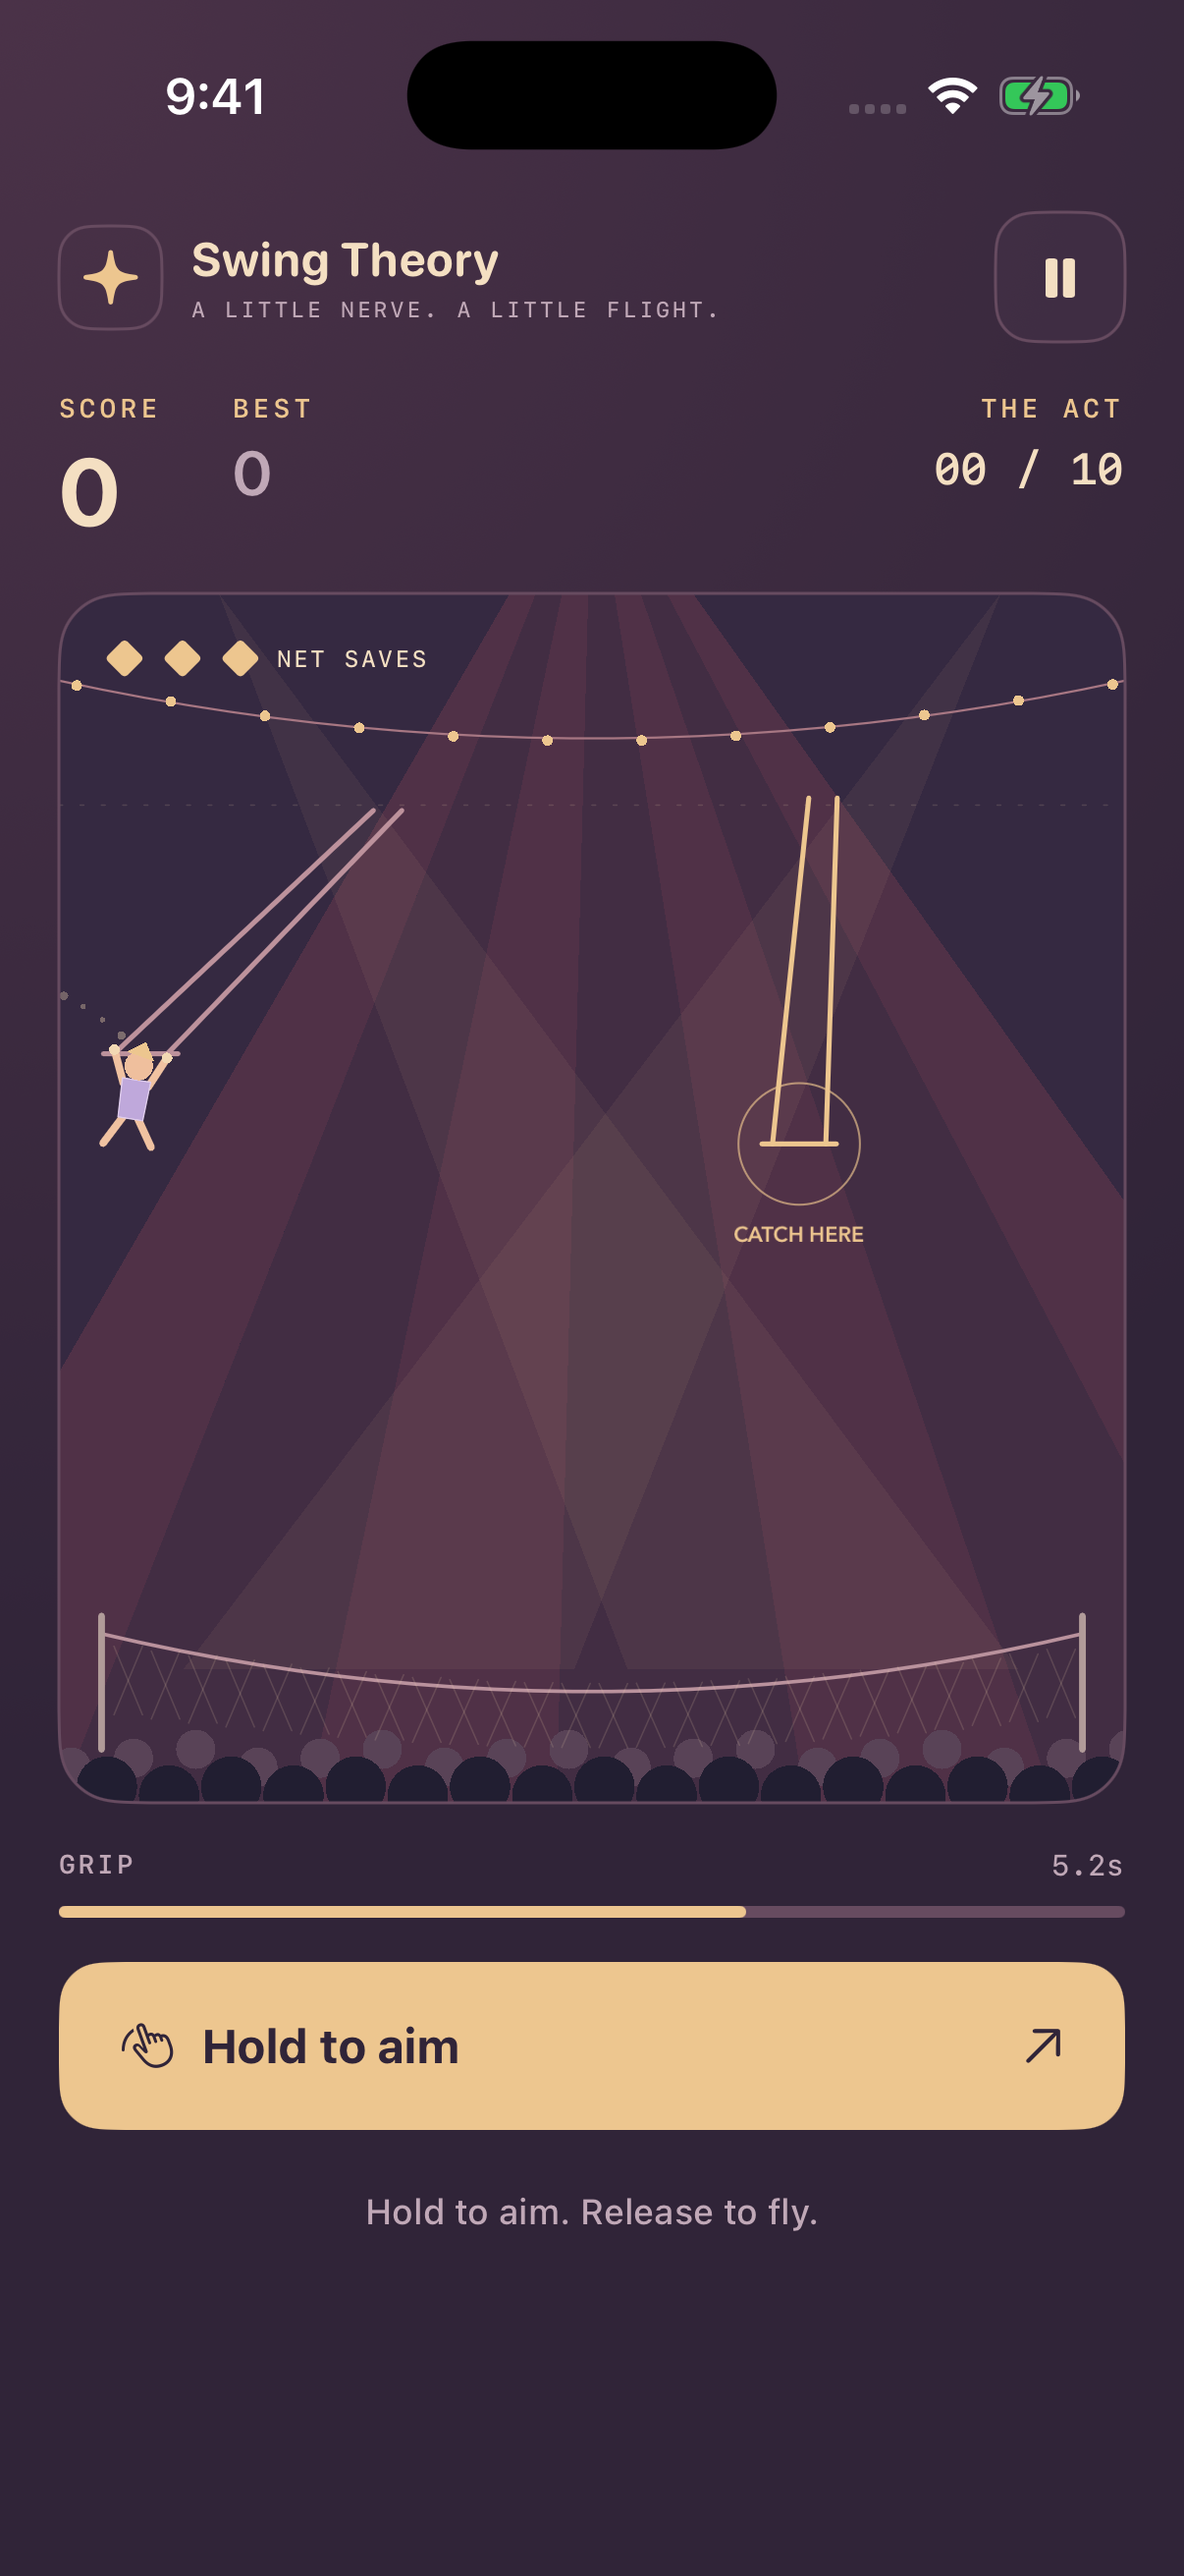
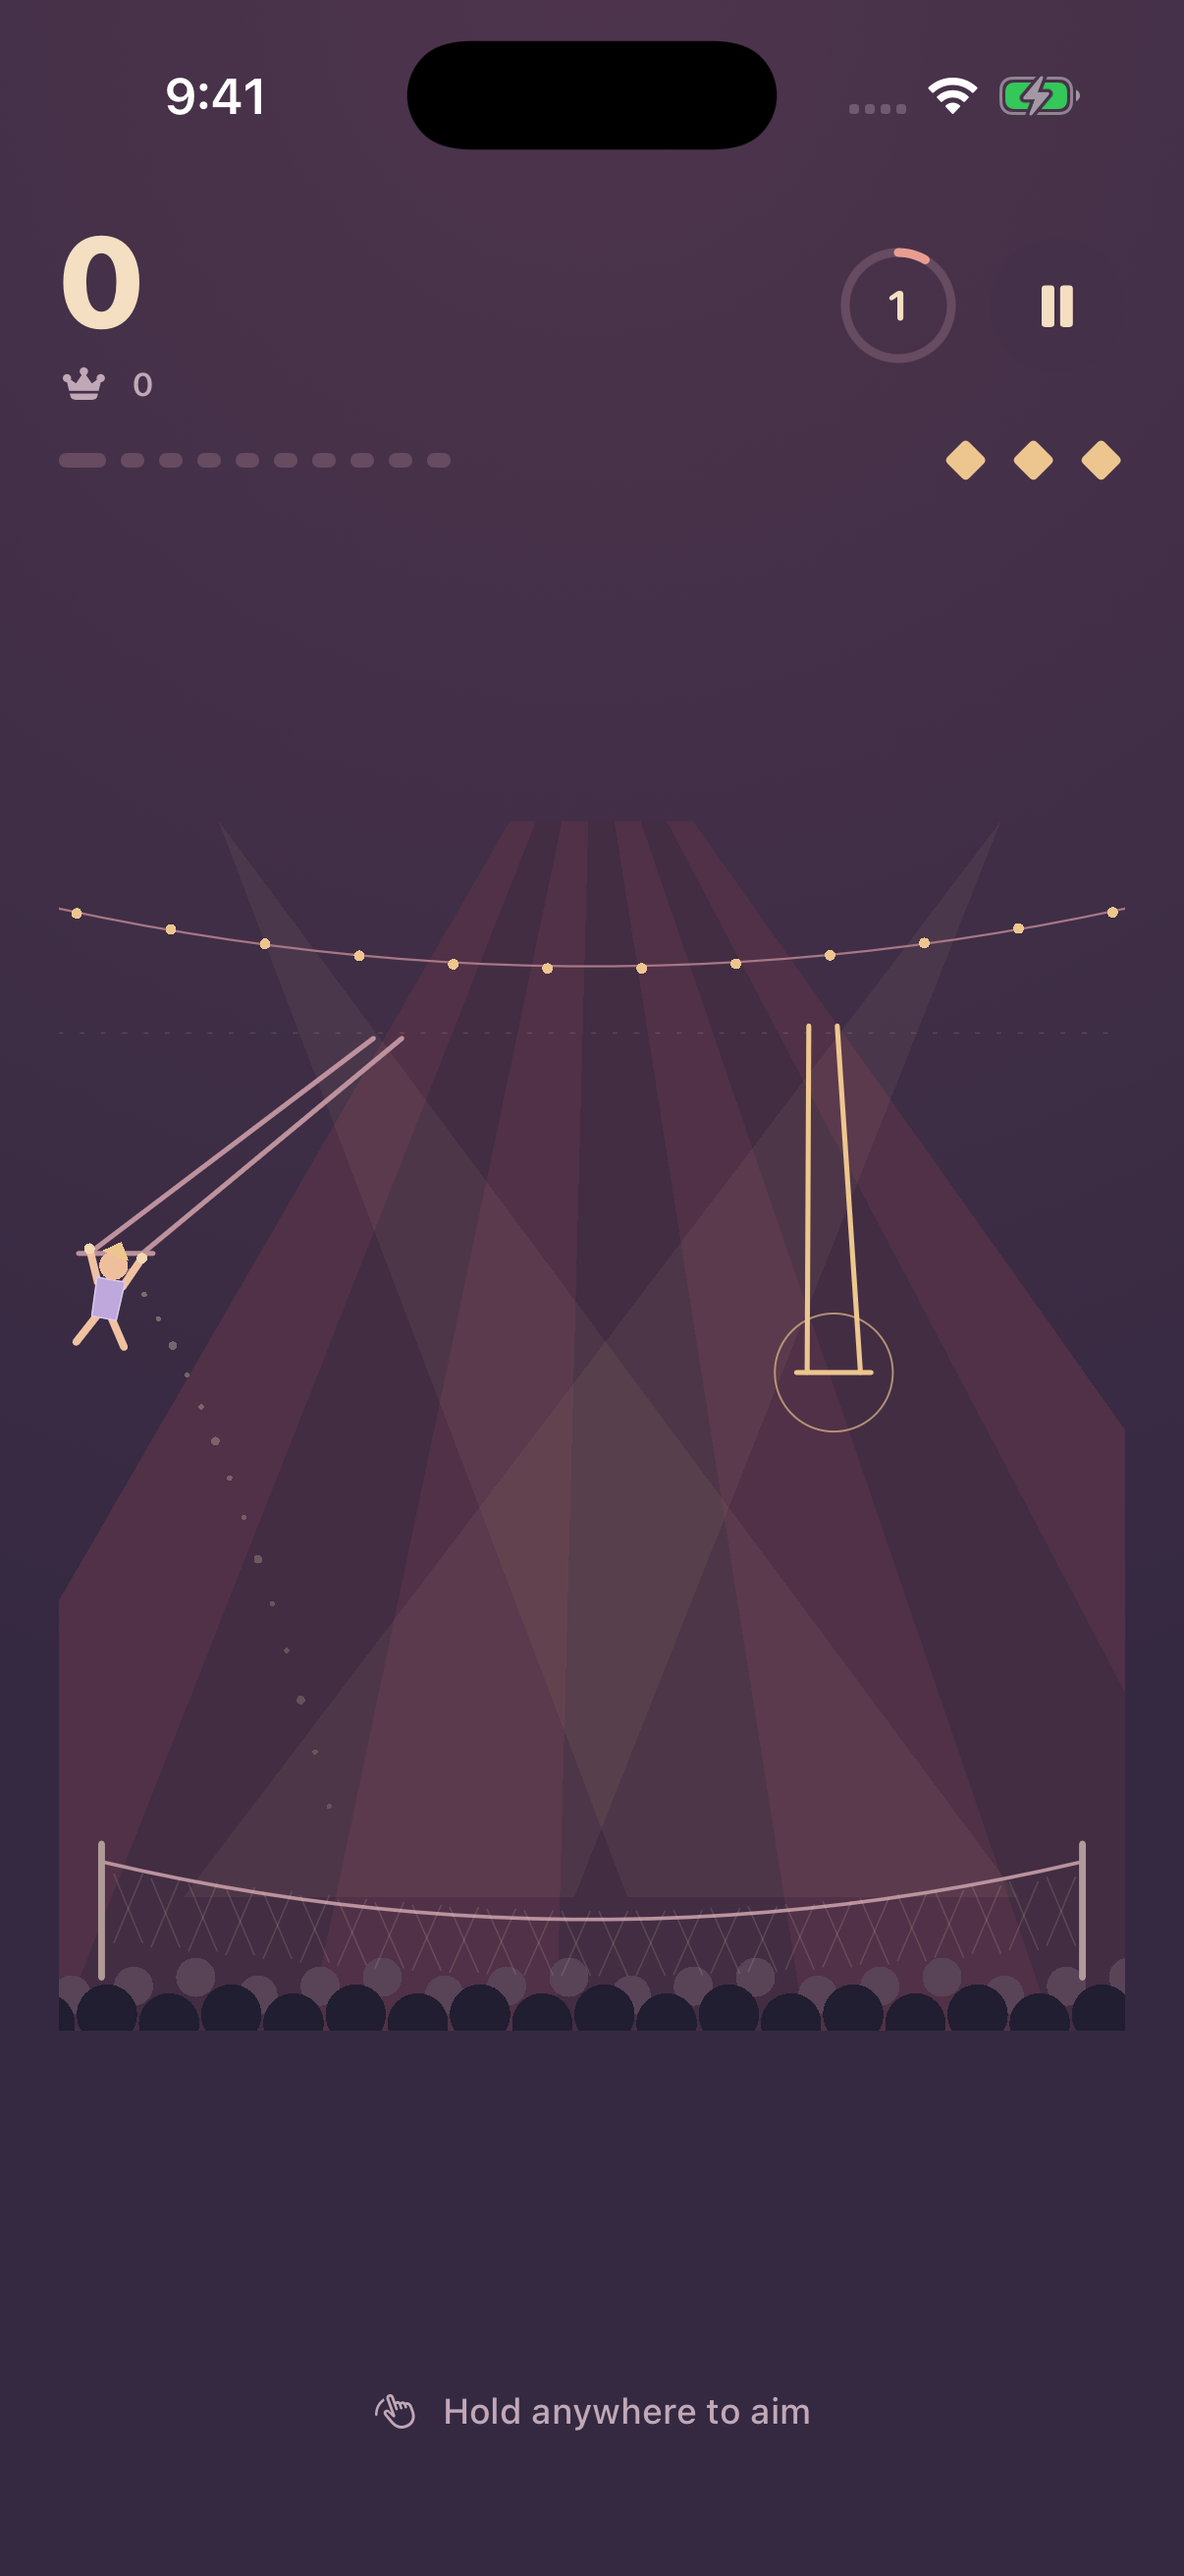
Update Swing Theory website for streamlined build 2 controls

diff --git a/index.html b/index.html
@@ -2,7 +2,7 @@
 <html lang="en"><head><meta charset="utf-8"><meta name="viewport" content="width=device-width,initial-scale=1"><meta name="theme-color" content="#302438"><title>Swing Theory — A little nerve. A little flight.</title><meta name="description" content="A beautiful trapeze timing game for iPhone. Hold to aim, release to fly, and chase one more perfect catch. Ten transfers. Three net saves. Your moment."><link rel="icon" href="assets/app-icon.png" type="image/png"><link rel="stylesheet" href="assets/styles.css"></head>
 <body><a class="skip" href="#main">Skip to content</a><header class="header wrap"><a class="brand" href="index.html"><img src="assets/app-icon.png" width="40" height="40" alt="">Swing Theory</a><nav class="nav" aria-label="Main navigation"><a class="how-link" href="#how-to-play">The game</a><a href="support.html">Support</a><a href="privacy.html">Privacy</a></nav></header>
 <main id="main" class="wrap"><section class="hero"><div><p class="eyebrow">YOUR MOMENT IN THE SPOTLIGHT</p><h1>A little nerve.<br>A little <em>flight.</em></h1><p class="lede">That tiny moment between holding on and letting go? There’s a whole game in it.</p><p class="lede">Swing through a velvet circus, find your line, and leap for the next trapeze. Ten transfers. Three net saves. One more try.</p><div class="herolinks"><a class="button" href="#how-to-play">Find your moment <span aria-hidden="true">↗</span></a><a class="textlink" href="support.html">Meet your safety net →</a></div><p class="fineprint">MADE FOR IPHONE · IOS 17 AND LATER</p></div><div class="stage"><img src="assets/gameplay.png" width="1206" height="2622" alt="Swing Theory on iPhone: a little acrobat, a dotted flight arc, and a glowing trapeze in a plum-colored circus."><div class="floatnote">A beautiful catch is worth the wait. ✦</div></div></section>
-<section class="section" id="how-to-play"><p class="eyebrow">THREE LITTLE THINGS TO KNOW</p><h2>Hold. Release. Believe.</h2><div class="steps"><article class="step"><span class="number">01 / FIND YOUR LINE</span><h3>Hold to aim.</h3><p>Touch and hold to slow your swing. A dotted arc shows where you’ll fly. Watch it turn mint when your release lines up with the next bar.</p></article><article class="step"><span class="number">02 / TAKE THE LEAP</span><h3>Let go to fly.</h3><p>Release while swinging right and upward. Reach the glowing ring and your acrobat catches the bar automatically. You bring the timing.</p></article><article class="step"><span class="number">03 / MAKE IT BEAUTIFUL</span><h3>Catch an encore.</h3><p>Link catches for a growing streak bonus. Centered approaches earn extra precision points. A missed leap uses one of your three net saves.</p></article></div></section>
+<section class="section" id="how-to-play"><p class="eyebrow">THREE LITTLE THINGS TO KNOW</p><h2>Hold. Release. Believe.</h2><div class="steps"><article class="step"><span class="number">01 / FIND YOUR LINE</span><h3>Hold to aim.</h3><p>Touch and hold anywhere in the play area to slow your swing. A dotted arc shows where you’ll fly. Watch it turn mint when your release lines up with the next bar.</p></article><article class="step"><span class="number">02 / TAKE THE LEAP</span><h3>Let go to fly.</h3><p>Release while swinging right and upward. Reach the glowing ring and your acrobat catches the bar automatically. You bring the timing.</p></article><article class="step"><span class="number">03 / MAKE IT BEAUTIFUL</span><h3>Catch an encore.</h3><p>Link catches for a growing streak bonus. Centered approaches earn extra precision points. A missed leap uses one of your three net saves.</p></article></div></section>
 <section class="section featureline"><div><p class="eyebrow">SMALL ROUNDS. A LONG WAY TO IMPROVE.</p><h2>The same little leap.<br>A better feeling every time.</h2></div><div><p>Moving trapezes and varied layouts keep each performance fresh. The grip timer tightens as your act progresses, and every clean catch makes the next one matter a little more.</p><p>Play offline, save your best score on your iPhone, and settle into your own rhythm. No accounts or ads. Just you and the next bar.</p><div class="pills"><span>ONE-TOUCH PLAY</span><span>LOCAL BEST SCORES</span><span>SOUND & HAPTICS</span><span>REDUCED EFFECTS</span></div></div></section>
 <section class="section featureline"><div><p class="eyebrow">A HAND FROM THE WINGS</p><h2>Need a little support?</h2></div><div><p>Questions, close calls, or ideas for the next act—we’d love to hear from you.</p><a class="button" href="support.html">Get in touch <span aria-hidden="true">↗</span></a></div></section></main>
 <footer class="footer wrap"><span>© 2026 Debugger Society. All rights reserved.</span><div><a href="index.html">The game</a><a href="support.html">Support</a><a href="privacy.html">Privacy</a></div></footer></body></html>

diff --git a/support.html b/support.html
@@ -1,10 +1,10 @@
 <!doctype html><html lang="en"><head><meta charset="utf-8"><meta name="viewport" content="width=device-width,initial-scale=1"><meta name="theme-color" content="#302438"><title>Support & how to play — Swing Theory</title><meta name="description" content="Get help with Swing Theory, learn the trapeze controls and scoring, and contact Debugger Society."><link rel="icon" href="assets/app-icon.png" type="image/png"><link rel="stylesheet" href="assets/styles.css"></head><body><a class="skip" href="#main">Skip to content</a><header class="header wrap"><a class="brand" href="index.html"><img src="assets/app-icon.png" width="40" height="40" alt="">Swing Theory</a><nav class="nav" aria-label="Main navigation"><a class="how-link" href="index.html#how-to-play">The game</a><a href="support.html" aria-current="page">Support</a><a href="privacy.html">Privacy</a></nav></header>
 <main id="main" class="wrap"><div class="dochead"><p class="eyebrow">A HAND FROM THE WINGS</p><h1>Let’s keep you flying.</h1><p class="lede">A question, a bug, or an idea for the next act? You can reach the developer directly.</p></div><div class="supportgrid"><section class="contact"><h2>Say hello.</h2><p>For help with Swing Theory, send us an email. Include your iPhone model, iOS version, app version, and what happened. A screenshot can help, too.</p><a class="button" href="mailto:debuggersociety@zohomail.com?subject=Swing%20Theory%20support">Get in touch <span aria-hidden="true">↗</span></a><a class="email" href="mailto:debuggersociety@zohomail.com">debuggersociety@zohomail.com</a></section><section class="faqs" aria-labelledby="faq"><h2 id="faq">Good questions.</h2>
-<details open><summary>How do I play?</summary><p>Choose Enter the spotlight. Hold the playfield or the large control to slow your swing, then release to leap. The dots show your flight arc. Your acrobat catches the next bar automatically when you reach its ring. Make ten transfers before using all three net saves.</p></details>
+<details open><summary>How do I play?</summary><p>Choose Play. Hold anywhere in the play area to slow your swing, then release to leap. The dots show your flight arc. Your acrobat catches the next bar automatically when you reach its ring. Make ten transfers before using all three net saves.</p></details>
 <details><summary>What does the mint guide mean?</summary><p>The guide turns mint when your current release is lined up with the moving next bar. It’s a timing cue: the line continues to change while you swing, so release while it is lined up.</p></details>
 <details><summary>How does scoring work?</summary><p>Each catch earns 120 points, plus 25 points for each catch in the current uninterrupted streak. Your first catch is worth 145 before bonuses; your second is worth 170. A centered approach adds 60 precision points. A fall resets your streak.</p></details>
 <details><summary>Why did I lose a net save without jumping?</summary><p>Your grip lasts eight seconds at the beginning and tightens as you progress. Holding to aim slows the swing, but the grip timer keeps running. Release before your grip runs out.</p></details>
-<details><summary>Can I pause or leave the app?</summary><p>Yes. Tap Pause during a performance. Switching apps or receiving an interruption pauses your run automatically. Choose Keep playing when you return. If iOS closes the app completely, your best score remains, but the unfinished run starts over.</p></details>
+<details><summary>Can I pause or leave the app?</summary><p>Yes. Tap Pause during a performance. Switching apps or receiving an interruption pauses your run automatically. Choose Resume when you return. If iOS closes the app completely, your best score remains, but the unfinished run starts over.</p></details>
 <details><summary>Why can’t I hear the game?</summary><p>Swing Theory respects your iPhone’s Silent Mode. Check Silent Mode and media volume, then make sure Sound is enabled in Settings. The game mixes with other audio.</p></details>
 <details><summary>Where is my best score saved?</summary><p>On your iPhone. It remains after closing the app but does not sync between devices. Deleting the app removes local scores and settings. We cannot recover scores we never received.</p></details>
 <details><summary>Can I reduce the visual effects?</summary><p>Enable Reduce effects in Settings. Swing Theory also honors the system’s Reduce Motion preference. Decorative bursts and trails become quieter while gameplay timing remains the same.</p></details>

diff --git a/privacy.html b/privacy.html
@@ -1,7 +1,7 @@
 <!doctype html><html lang="en"><head><meta charset="utf-8"><meta name="viewport" content="width=device-width,initial-scale=1"><meta name="theme-color" content="#302438"><title>Privacy — Swing Theory</title><meta name="description" content="Swing Theory does not collect data from the app. Learn about local scores, support correspondence, and this website."><link rel="icon" href="assets/app-icon.png" type="image/png"><link rel="stylesheet" href="assets/styles.css"></head><body><a class="skip" href="#main">Skip to content</a><header class="header wrap"><a class="brand" href="index.html"><img src="assets/app-icon.png" width="40" height="40" alt="">Swing Theory</a><nav class="nav" aria-label="Main navigation"><a class="how-link" href="index.html#how-to-play">The game</a><a href="support.html">Support</a><a href="privacy.html" aria-current="page">Privacy</a></nav></header>
 <main id="main" class="wrap"><div class="dochead"><p class="eyebrow">YOUR PERFORMANCE STAYS YOURS</p><h1>Privacy policy.</h1><p class="lede">A little game with a simple approach to your information.</p><p class="updated">EFFECTIVE SEPTEMBER 13, 2026</p></div><div class="docgrid"><nav class="docnav" aria-label="Policy sections"><a href="#app">The app</a><a href="#saved">Saved scores</a><a href="#ads">Advertising</a><a href="#support">Support messages</a><a href="#website">This website</a><a href="#contact">Contact</a></nav><div class="doccontent">
 <section id="app"><h2>The app</h2><p>Swing Theory is developed by Debugger Society. We do not collect or transmit personal data from the app. The game works offline and does not include analytics, tracking, an account system, or third-party data-collection SDKs.</p></section>
-<section id="saved"><h2>Your scores and settings</h2><p>Your best score and preferences, including sound, haptics, and reduced effects, are stored locally on your device. They are not sent to us and do not sync between devices through Swing Theory.</p><p>Deleting the app removes its local data. We cannot recover a score that was never sent to us.</p></section>
+<section id="saved"><h2>Your scores and settings</h2><p>Your best score and preferences, including sound, haptics, and reduced effects, are stored locally on your device. The app also saves whether you have learned the controls and local play-time, launch-count, and request-date counters used to space out Apple’s optional rating prompt. They are not sent to us and do not sync between devices through Swing Theory.</p><p>Deleting the app removes its local data. We cannot recover a score that was never sent to us.</p></section>
 <section id="ads"><h2>Advertising</h2><p>Swing Theory does not display ads and does not include an advertising SDK.</p></section>
 <section id="support"><h2>Support messages</h2><p>If you email us, we receive your email address and the information you choose to include, such as a message, screenshots, or device details. We use that information to respond and troubleshoot your request. Please do not include passwords or other sensitive information.</p><p>We retain correspondence only as long as reasonably needed to provide support or meet legal obligations. You may request deletion of your support correspondence by emailing <a href="mailto:debuggersociety@zohomail.com">debuggersociety@zohomail.com</a>.</p></section>
 <section id="website"><h2>This website</h2><p>This website does not set its own cookies or include analytics, advertising scripts, or external fonts. It is prepared for hosting on GitHub Pages. The hosting provider may process technical request information, such as IP addresses, to operate and protect the service. See <a href="https://docs.github.com/en/site-policy/privacy-policies/github-general-privacy-statement">GitHub’s privacy statement</a> for its practices.</p></section>
